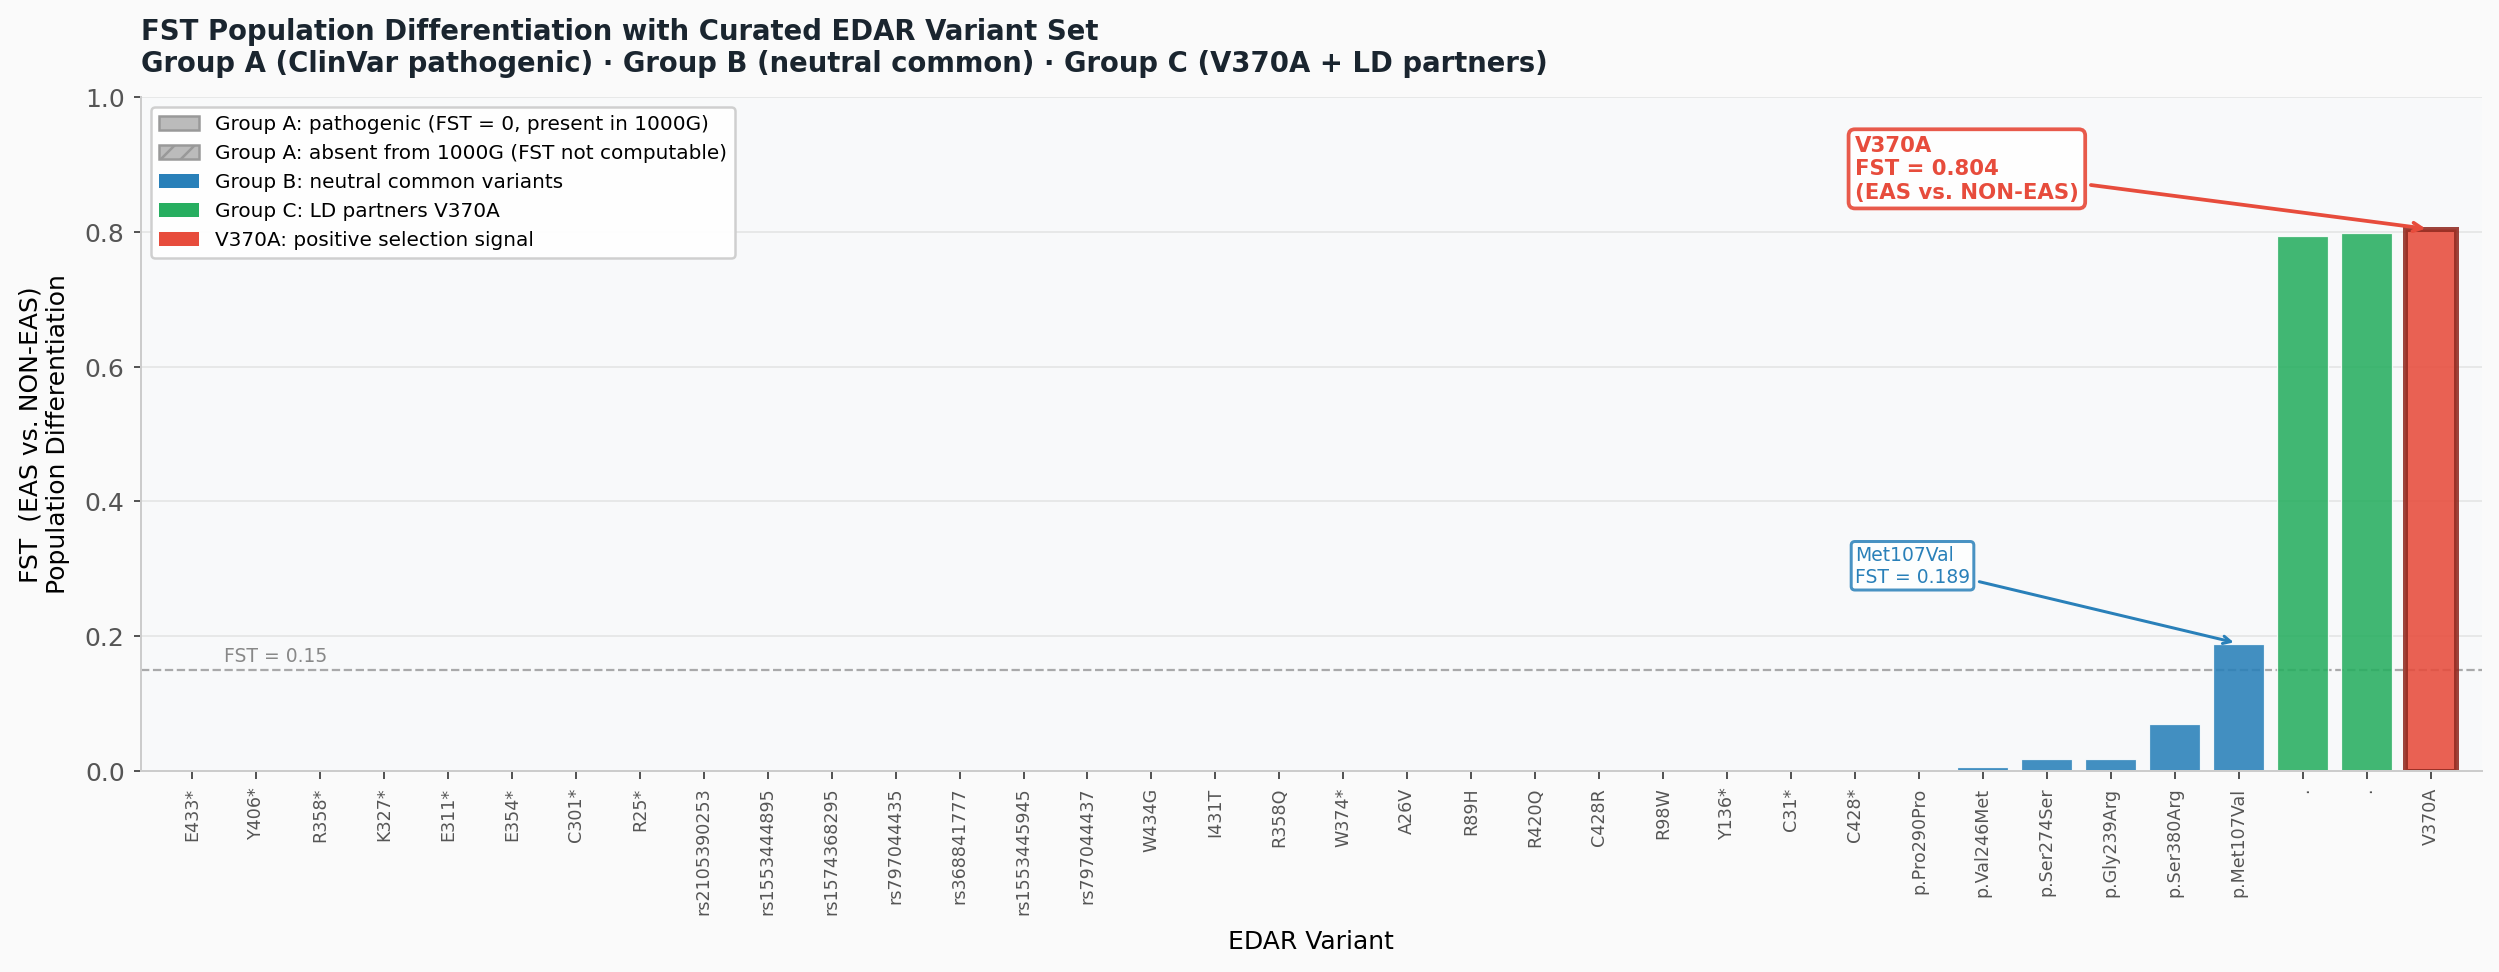
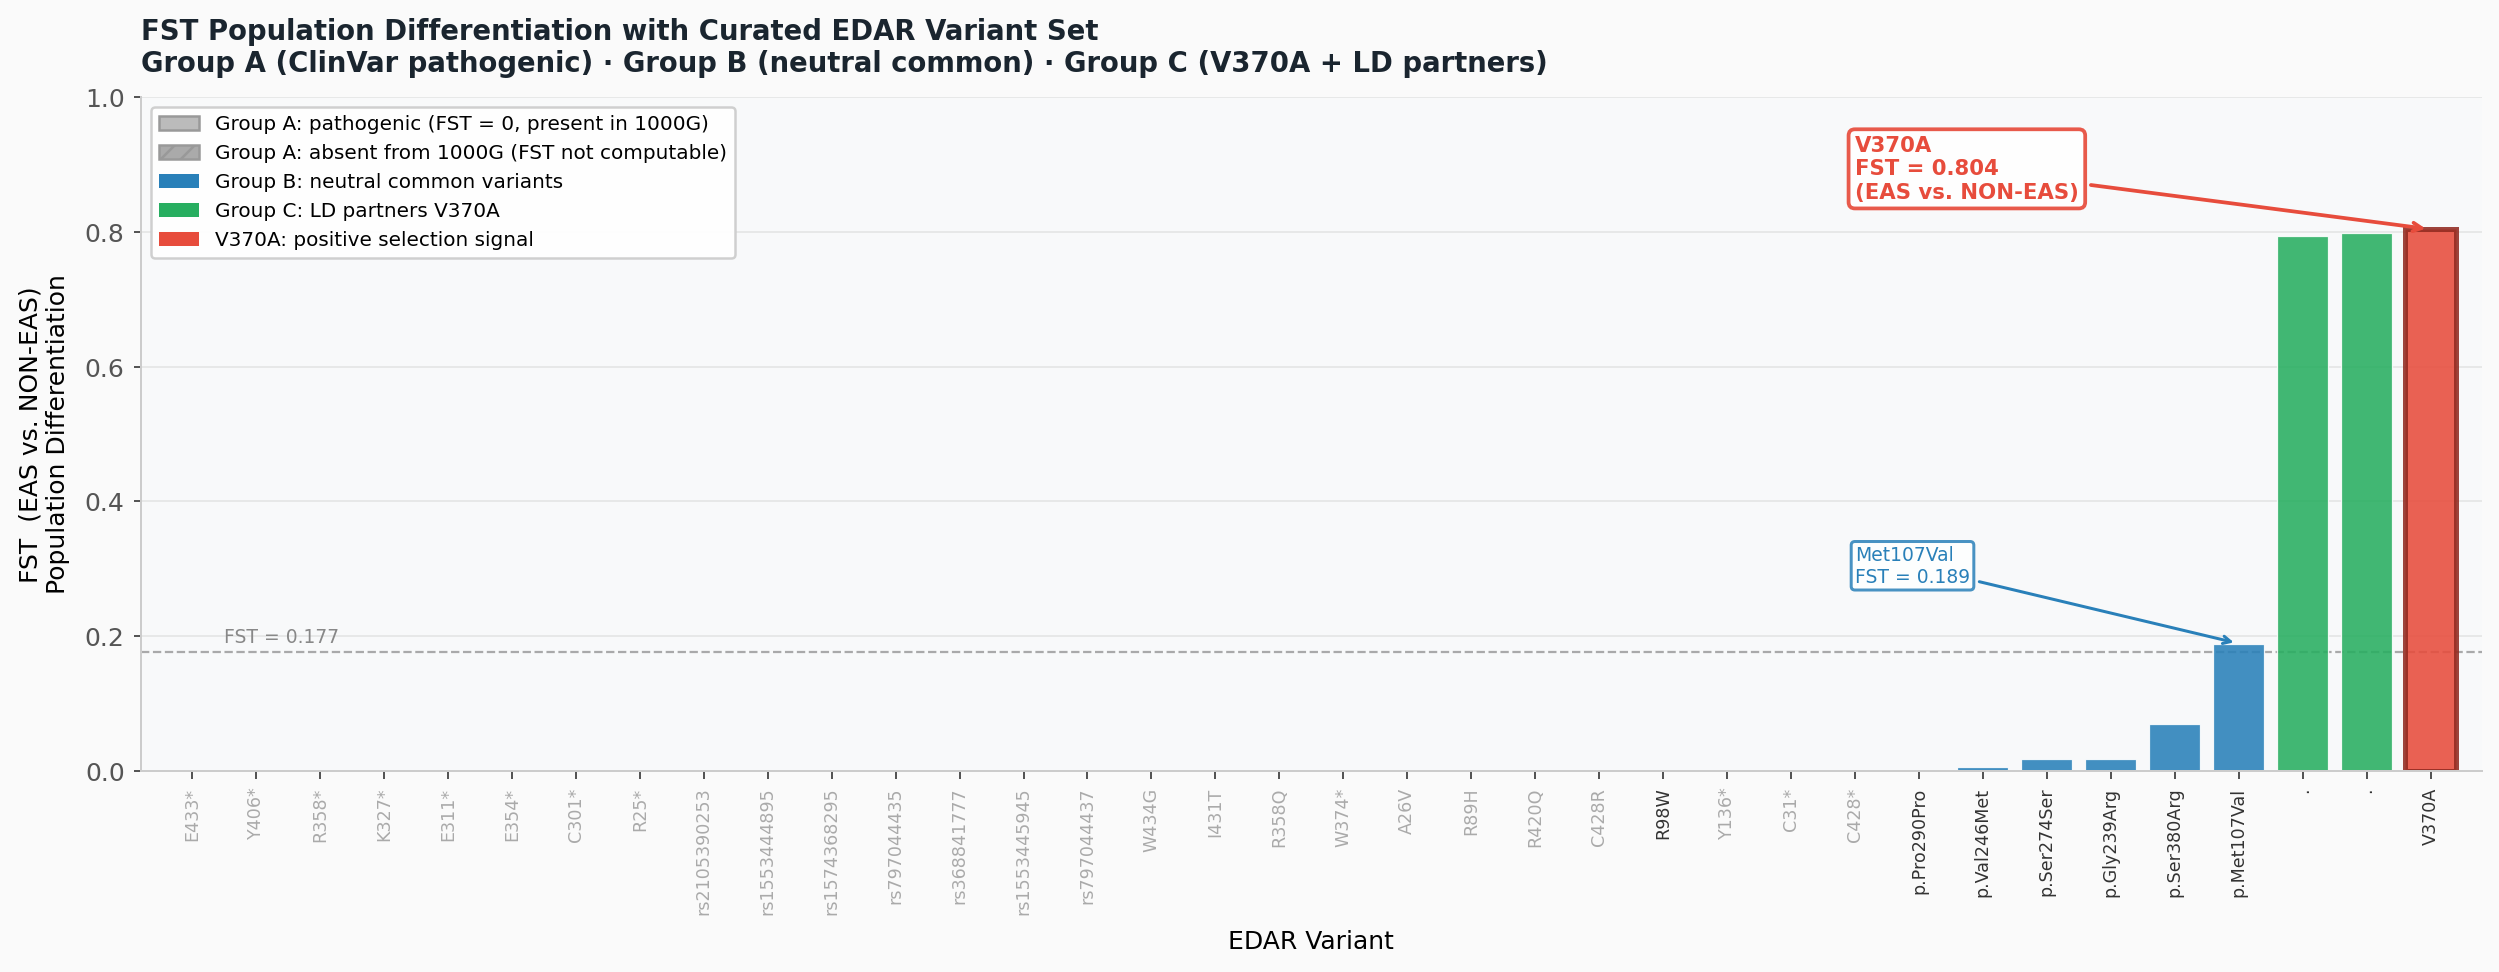
upload data

diff --git a/skripts_outputs/02_population/selection_score/fst_bar_plot.py b/skripts_outputs/02_population/selection_score/fst_bar_plot.py
@@ -1,0 +1,121 @@
+import pandas as pd
+import matplotlib.pyplot as plt
+import matplotlib.patches as mpatches
+
+df = pd.read_csv(r"skripts_outputs\02_population\variantset\EDAR_Variant_Set_complete_final.csv")
+df = df.drop_duplicates(subset="rsID", keep="first").reset_index(drop=True)
+
+df["fst_computed"] = df["FST"].notna()
+df["FST_plot"] = pd.to_numeric(df["FST"], errors="coerce").fillna(0.0)
+df["label"] = df["Protein"].fillna(df["rsID"])
+
+# rank fst estimates
+df = df.sort_values("FST_plot").reset_index(drop=True)
+
+GROUP_COLOR = {"A": "#BBBBBB",
+               "B": "#2980B9",
+               "C": "#27AE60", }
+
+V370A_COLOR = "#E74C3C"
+V370A_EDGE = "#922B21"
+
+fig, ax = plt.subplots(figsize=(14, 5.5))
+fig.patch.set_facecolor("#FAFAFA")
+ax.set_facecolor("#F8F9FA")
+
+# ranking the bars
+for i, row in df.iterrows():
+    is_v370a = row["rsID"] == "rs3827760"
+
+    if is_v370a:
+        color = V370A_COLOR
+        edgecolor = V370A_EDGE
+        lw = 2.0
+    else:
+        color = GROUP_COLOR.get(row["Group"], "#BBBBBB")
+        edgecolor = "white"
+        lw = 0.5
+
+    # Schraffur for absence in 1000 gp
+    hatch = "/////" if not row["fst_computed"] else ""
+
+    ax.bar(i, row["FST_plot"],
+           color=color, hatch=hatch,
+           edgecolor=edgecolor, linewidth=lw,
+           zorder=2, alpha=0.88)
+
+# highlight/annotate V370A
+v370a_idx = df[df["rsID"] == "rs3827760"].index[0]
+v370a_fst = df.loc[v370a_idx, "FST_plot"]
+
+ax.annotate(
+    f"V370A\nFST = {v370a_fst:.3f}\n(EAS vs. NON-EAS)",
+    xy=(v370a_idx, v370a_fst),
+    xytext=(v370a_idx - 9, 0.85),
+    fontsize=8.5, fontweight="bold", color=V370A_COLOR,
+    arrowprops=dict(arrowstyle="->", color=V370A_COLOR, lw=1.5),
+    bbox=dict(boxstyle="round,pad=0.3", facecolor="white",
+              edgecolor=V370A_COLOR, alpha=0.92, linewidth=1.5)
+)
+
+# p.Met107Val annotation (group b outlier)
+met_idx = df[df["label"].str.contains("Met107|M107", na=False)].index
+if len(met_idx):
+    idx = met_idx[0]
+    ax.annotate(
+        f"Met107Val\nFST = {df.loc[idx, 'FST_plot']:.3f}",
+        xy=(idx, df.loc[idx, "FST_plot"]),
+        xytext=(idx - 6, 0.28),
+        fontsize=7.5, color="#2980B9",
+        arrowprops=dict(arrowstyle="->", color="#2980B9", lw=1.2),
+        bbox=dict(boxstyle="round,pad=0.2", facecolor="white",
+                  edgecolor="#2980B9", alpha=0.85, linewidth=1.2)
+    )
+
+# threshold
+ax.axhline(0.177, color="#888888", linestyle="--", linewidth=0.9, alpha=0.7, zorder=1)
+ax.text(0.5, 0.184, "FST = 0.177", fontsize=7.5, color="#888888", va="bottom")
+
+ax.set_xticks(range(len(df)))
+ax.set_xticklabels(df["label"], rotation=90, fontsize=7)
+ax.set_ylabel("FST  (EAS vs. NON-EAS)\nPopulation Differentiation", fontsize=10, labelpad=6)
+ax.set_xlabel("EDAR Variant", fontsize=10, labelpad=6)
+ax.set_ylim(0, 1.0)
+ax.set_xlim(-0.8, len(df) - 0.2)
+
+ax.set_title(
+    "FST Population Differentiation with Curated EDAR Variant Set\n"
+    "Group A (ClinVar pathogenic) · Group B (neutral common) · "
+    "Group C (V370A + LD partners)",
+    fontsize=11, fontweight="bold", color="#1A252F",
+    pad=10, loc="left"
+)
+
+ax.spines[["top", "right"]].set_visible(False)
+ax.spines[["left", "bottom"]].set_color("#CCCCCC")
+ax.tick_params(colors="#555555", length=3)
+ax.grid(axis="y", color="#DDDDDD", linewidth=0.6, alpha=0.8, zorder=0)
+
+# differantiate in label again, lighter label no FST estimate
+for i, tick in enumerate(ax.get_xticklabels()):
+    tick.set_color(
+        "#333333" if df.iloc[i]["fst_computed"] else "#AAAAAA"
+    )
+
+legend_content = [mpatches.Patch(facecolor="#BBBBBB", edgecolor="#999",
+                                 label="Group A: pathogenic (FST = 0, present in 1000G)"),
+                  mpatches.Patch(facecolor="#AAAAAA", edgecolor="#999", hatch="///",
+                                 label="Group A: absent from 1000G (FST not computable)"),
+                  mpatches.Patch(facecolor="#2980B9",
+                                 label="Group B: neutral common variants"),
+                  mpatches.Patch(facecolor="#27AE60",
+                                 label="Group C: LD partners V370A"),
+                  mpatches.Patch(facecolor="#E74C3C",
+                                 label="V370A: positive selection signal"), ]
+
+ax.legend(handles=legend_content, fontsize=8, loc="upper left",
+          framealpha=0.92, fancybox=True, edgecolor="#CCCCCC")
+
+plt.tight_layout()
+plt.savefig("FST_ranked_barplot_v2.png", dpi=180, bbox_inches="tight", facecolor=fig.get_facecolor())
+print("Saved.")
